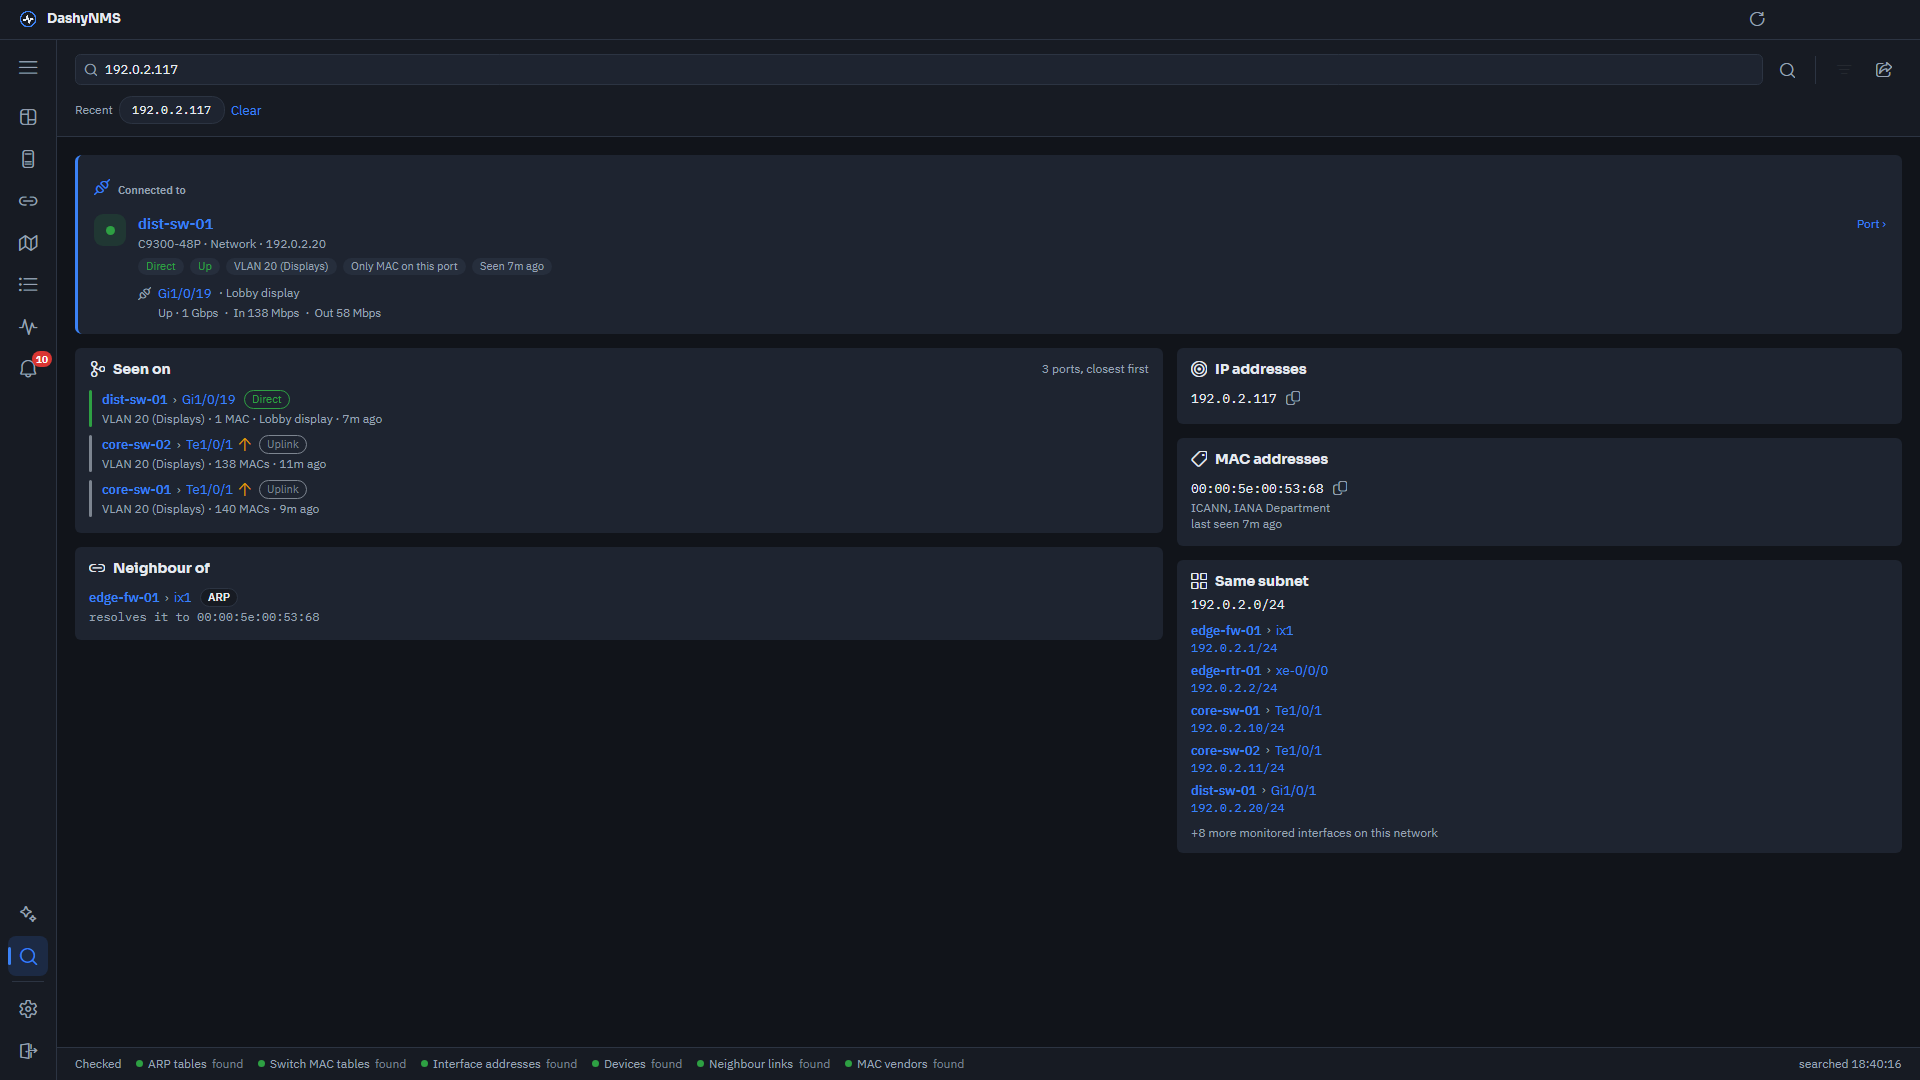
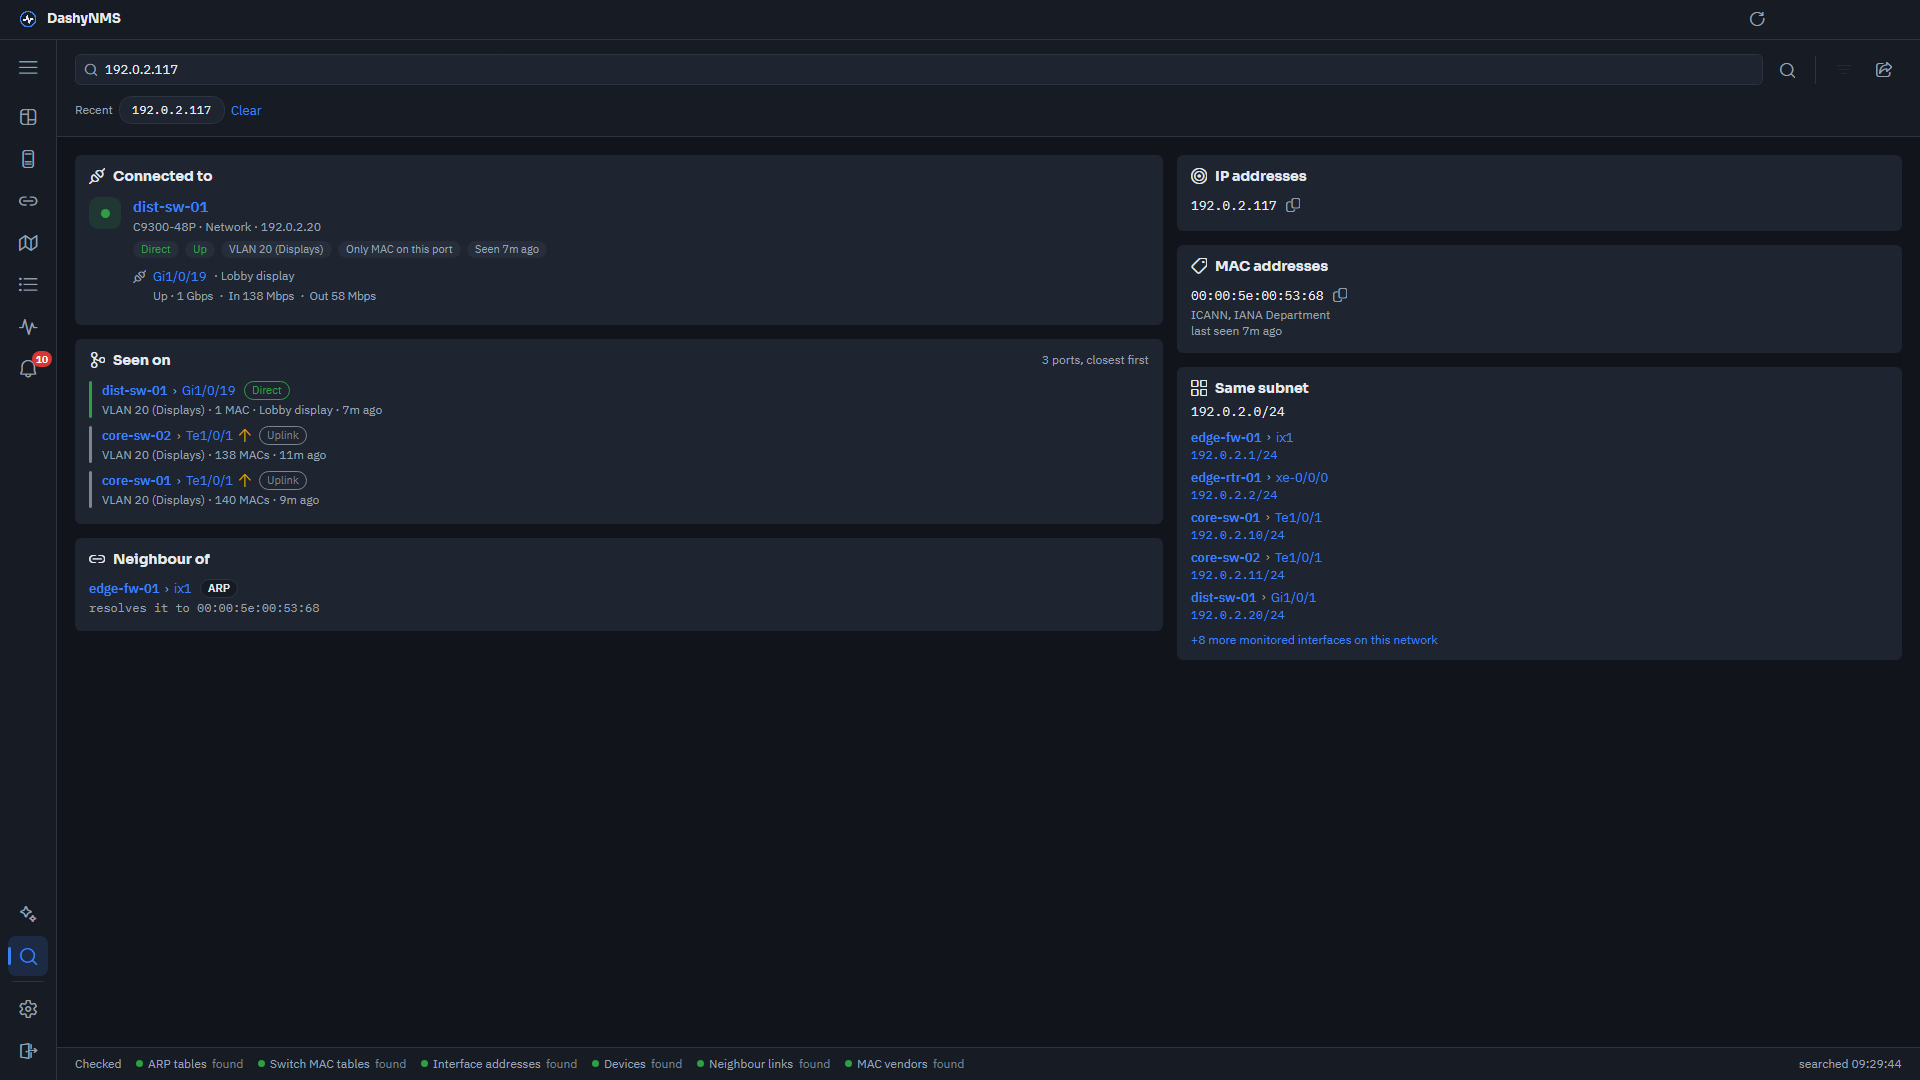
docs(search): describe Connected to's neighbours and fallback, and refresh the screenshot
Refs #57

diff --git a/docs/guide/how-to/network-search.md b/docs/guide/how-to/network-search.md
@@ -21,20 +21,23 @@ Recent searches appear under the box. Select one to search again, or **Clear** t
 
 ## Read a result
 
-**Connected to** comes first, laid out like the neighbour cards in device details:
+**Connected to** comes first, laid out like the neighbour cards in device details.
 
-- the switch and port the address most likely plugs into;
-- the switch's state;
-- whether the address is the **Direct** (only) MAC on the port, **Shared** with others, or on a port whose MAC count couldn't be read;
-- its VLAN, how recently it was seen, and the port's status and traffic.
+- **An address LibreNMS doesn't monitor** shows the switch and port it plugs into. If it's on more than one access port, such as a server with two links, every port is shown. Each one shows:
+  - the switch's state;
+  - whether the address is the **Direct** (only) MAC on the port, **Shared** with others, or on a port whose MAC count couldn't be read;
+  - its VLAN, how recently it was seen, and the port's status and traffic.
+- **A monitored device**, such as a switch or server, shows every neighbour it's linked to, uplinks included, as device details does. Select **+N more connections** to see them all.
 
-If a switch only saw the address on links to other switches, Connected to explains that there's no clear access port.
+When LibreNMS can't name the link, Connected to falls back to where the MAC address was learned and says why. This happens for a device with no discovered neighbours, or an address seen only on links between switches. In the second case it shows the closest port, marked **Uplink**.
+
+Neighbours LibreNMS doesn't monitor are shown in full, but can't be opened.
 
 The cards below show:
 
 - **Seen on**: every switch port that learned the address, closest first. Uplinks are marked with an arrow, and a sighting more than a day older than the newest is dimmed as stale.
 - **IP addresses** and **MAC addresses**: copy any value with its button. The MAC's maker comes from LibreNMS.
-- **Same subnet**: the network the address belongs to, with its gateway and other monitored interfaces.
+- **Same subnet**: the network the address belongs to, with its gateway first. Select **+N more** to list every monitored interface on it.
 - **Neighbour of**: the routers whose ARP tables hold the address.
 
 A search that matches a monitored device opens with a summary of that device. Select it to open device details. Every switch, port and interface opens its own view too.

diff --git a/docs/releases/2.0.0-preview.16.md b/docs/releases/2.0.0-preview.16.md
@@ -5,7 +5,10 @@ These notes cover changes since [preview 15](https://github.com/DashyNMS/desktop
 ## New
 
 - **Network Search.** Find anything on your network from one box: an IP address, a network such as `192.0.2.0/24`, a MAC address in any format, a device name, or a pasted list of them. Open it from the search icon under Intelligence in the sidebar, or press **Ctrl+Shift+F** (**Cmd+Shift+F** on macOS) on any page. **Ctrl+F** still searches the page you're on.
-  - **Connected to** comes first. It shows the switch and port the address most likely plugs into, laid out like the neighbour cards in device details. You see the switch's state, whether the address is alone on the port, its VLAN, how recently it was seen, and the port's status and traffic.
+  - **Connected to** comes first, laid out like the neighbour cards in device details.
+    - For an address LibreNMS doesn't monitor, it shows the switch and port the address plugs into: the switch's state, whether the address is alone on the port, its VLAN, how recently it was seen, and the port's status and traffic.
+    - For a monitored switch or server, it shows every neighbour the device is linked to.
+    - When LibreNMS can't name the link, it shows where the MAC address was learned instead.
   - Below that are the address's IP and MAC addresses (with the MAC's maker), every switch port that learned it with uplinks marked, its subnet and gateway, and the routers whose ARP tables know it. Every switch, port and interface opens in device details, and any value can be copied.
   - A search that matches a monitored device opens with a summary of that device.
   - When one address answers from several MACs, or one MAC appears on several access ports at once, a **Conflicts** card points it out.
